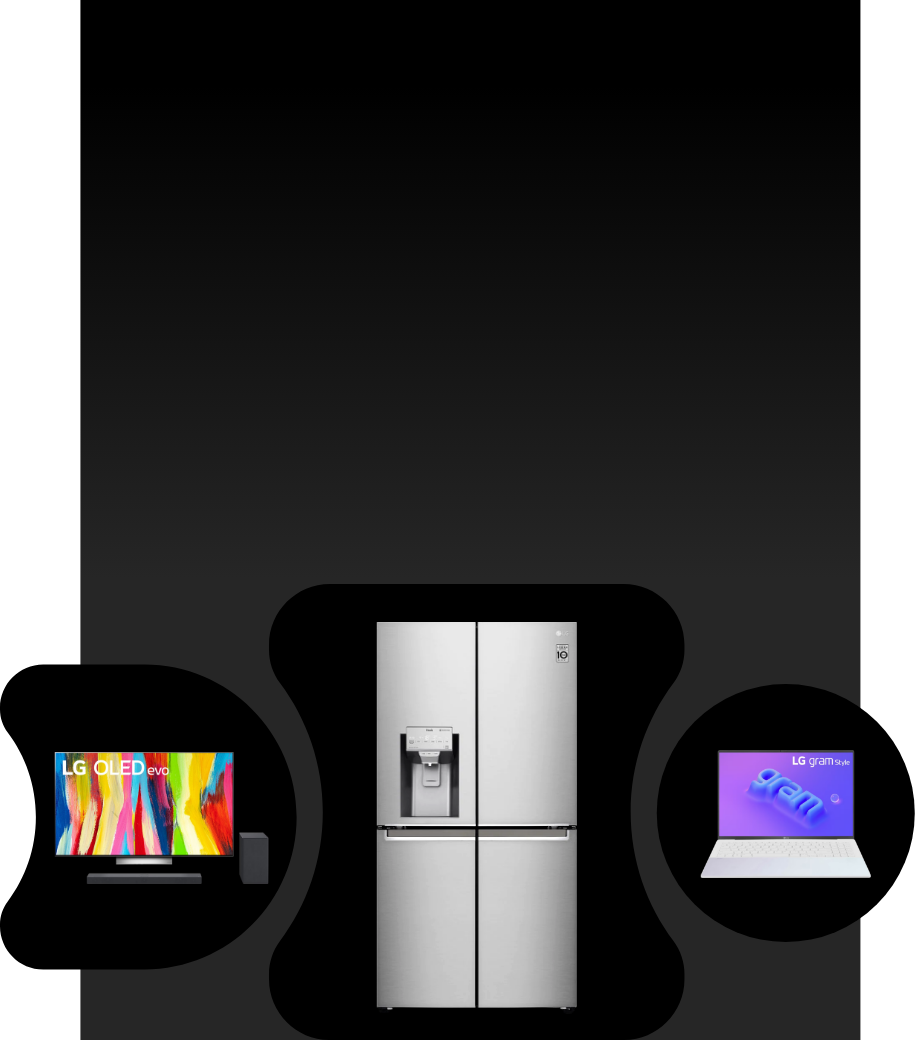
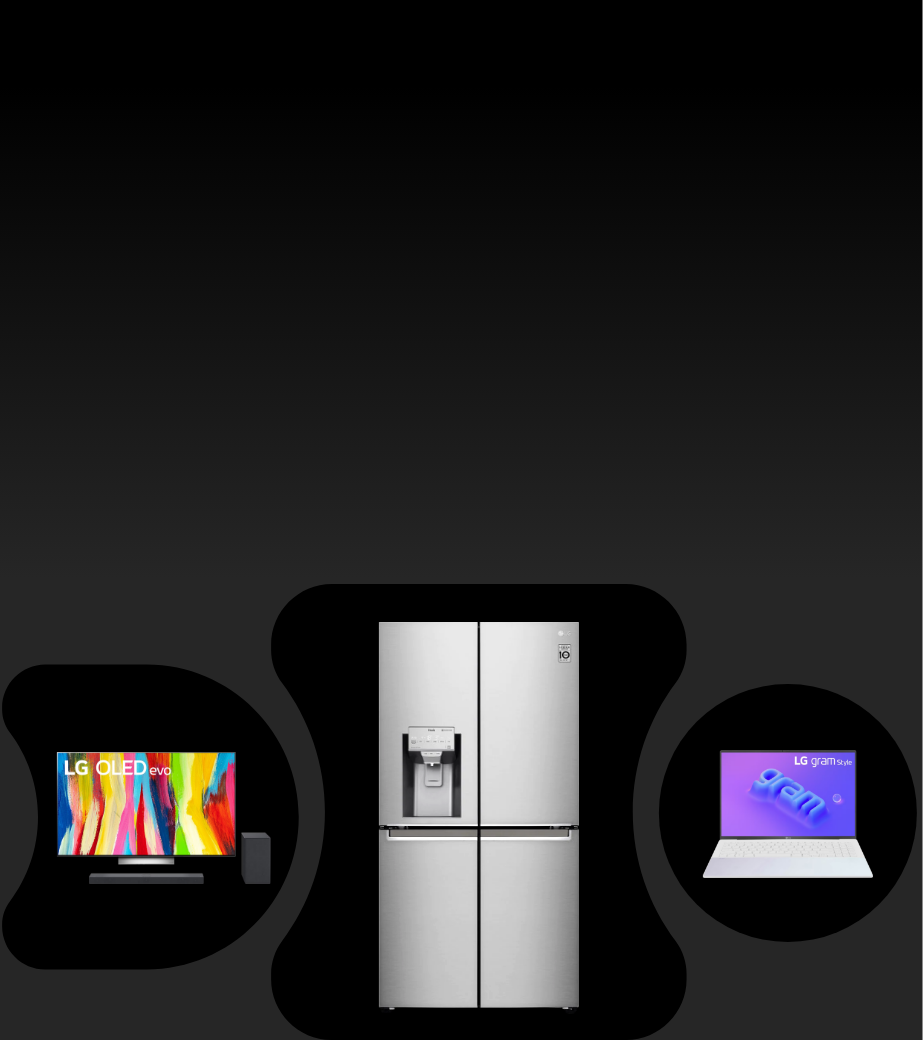
프랑스키비 수정

diff --git a/src/assets/css/index.scss b/src/assets/css/index.scss
@@ -1292,9 +1292,9 @@
 			// @media screen and (min-width: 390px) and (max-width: 768px) {
 			@media screen and (max-width: 768px) {
 				&__visual {
-					// height: 75vh;
-					background-size: 120%;
-					background-position: 63% 100%;
+					height: 85vh;
+					background-size: 110%;
+					background-position: 55% 100%;
 				}
 			}
 			@media screen and (max-width: 1024px) {
